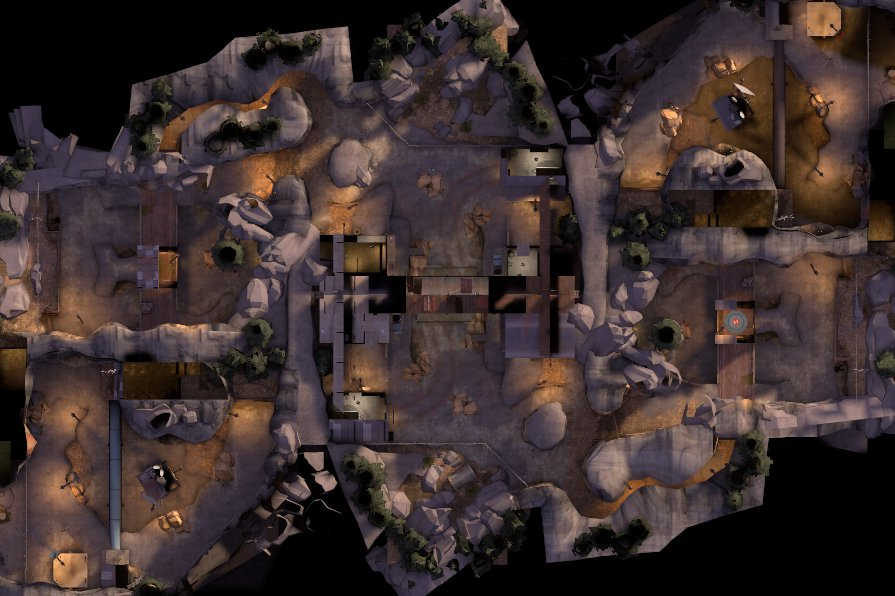
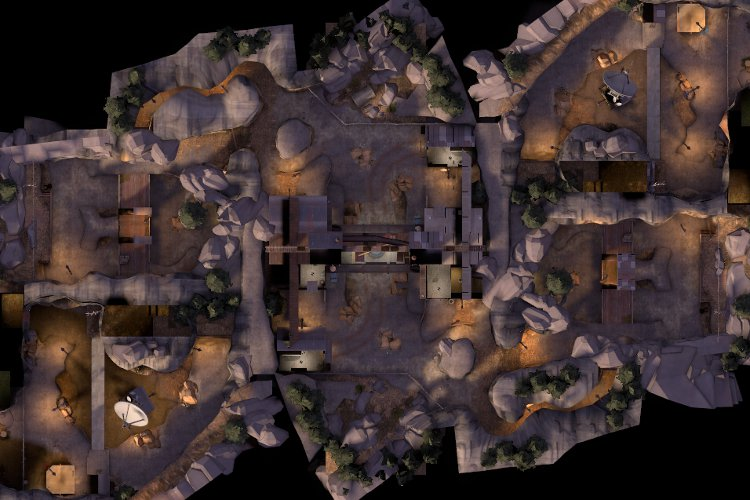
Fixed issue on the layout. Updated maps that were from before changes to JS, and added a bunch of new ones.

diff --git a/web/maps/cp_yukon_final/map.js b/web/maps/cp_yukon_final/map.js
@@ -1,26 +1,27 @@
 /////////////////////////////////////////////////////////////////////////////////////
 // YukonMap class - Abstract class to perform operations onto the canvas for the specific map.
 /////////////////////////////////////////////////////////////////////////////////////
-function YukonMap() {
-	this.minX = -3790;
-	this.maxX = 3793;
-	this.minY = -2496;
-	this.maxY = 2512;
-	this.imgWidth = 895;
-	this.imgHeight = 596;
-	this.flipXY = true;
-	this.negX = true;
-	this.negY = true;
-	this.capturePointRadius = 10;
-	this.mapImageLocation = './yukon.jpg';
-	this.capturePoints = [
-		new CapturePoint("#Badlands_cap_cp3", new Coordinate(0,0), "") //midpt, neutral
-		,new CapturePoint("#Badlands_cap_blue_cp1", new Coordinate(-2355, 3218), "blue")
-		,new CapturePoint("#Badlands_cap_blue_cp2", new Coordinate(237, 2463), "blue")
-		,new CapturePoint("#Badlands_cap_red_cp1", new Coordinate(2357, -3213), "red")
-		,new CapturePoint("#Badlands_cap_red_cp2", new Coordinate(-231, -2461), "red")
-	];
-}
-YukonMap.prototype = new GameMap();
-YukonMap.prototype.constructor = YukonMap;
+var YukonMap = GameMap.extend({
+  init: function(){
+		this._super();
+		
+	  this.minX = -3790;
+	  this.maxX = 3793;
+	  this.minY = -2496;
+	  this.maxY = 2512;
+	  this.imgWidth = 750;
+	  this.imgHeight = 500;
+	  this.flipXY = true;
+	  this.mapImageLocation = '/maps/cp_yukon_final/map.jpg';
+	  this.scoreBoardCorner = "br"; //red last collides with scoreboard in default position
+	  this.capturePoints = [
+	    //first value should be the log's name for the point, the second value should be the value that shows up in game
+		  new CapturePointDrawable("Center Control Point", "Center Control Point", this.generateImageCoordinate(new Coordinate(0,0)), "", this.capturePointRadius) //midpt, neutral
+		  ,new CapturePointDrawable("Blue Base", "Blue Base", this.generateImageCoordinate(new Coordinate(-2355, 3218)), "blue", this.capturePointRadius)
+		  ,new CapturePointDrawable("Blue Bridge", "Blue Bridge", this.generateImageCoordinate(new Coordinate(237, 2463)), "blue", this.capturePointRadius)
+		  ,new CapturePointDrawable("Red Base", "Red Base", this.generateImageCoordinate(new Coordinate(2357, -3213)), "red", this.capturePointRadius)
+		  ,new CapturePointDrawable("Red Bridge", "Red Bridge", this.generateImageCoordinate(new Coordinate(-231, -2461)), "red", this.capturePointRadius)
+	  ];
+	}
+});
 gameMapObj = new YukonMap(); //set the global map object to use our new YukonMap object.

diff --git a/web/maps/cp_gullywash_imp3/map.js b/web/maps/cp_gullywash_imp3/map.js
@@ -1,23 +1,25 @@
 /////////////////////////////////////////////////////////////////////////////////////
 // GullywashMap class - Abstract class to perform operations onto the canvas for the specific map.
 /////////////////////////////////////////////////////////////////////////////////////
-function GullywashMap() {
-	this.minX = -3541;
-	this.maxX = 4899;
-	this.minY = -2842;
-	this.maxY = 2265;
-	this.imgWidth = 700;
-	this.imgHeight = 421;
-	this.capturePointRadius = 10;
-	this.mapImageLocation = './gullywash.jpg';
-	this.capturePoints = [
-		new CapturePoint("#Badlands_cap_cp3", new Coordinate(692,-296), "") //midpt, neutral
-		,new CapturePoint("#Badlands_cap_blue_cp1", new Coordinate(4458, -1035), "blue")
-		,new CapturePoint("#Badlands_cap_blue_cp2", new Coordinate(1720, -1894), "blue")
-		,new CapturePoint("#Badlands_cap_red_cp1", new Coordinate(-3081, 450), "red")
-		,new CapturePoint("#Badlands_cap_red_cp2", new Coordinate(-356, 1316), "red")
-	];
-}
-GullywashMap.prototype = new GameMap();
-GullywashMap.prototype.constructor = GullywashMap;
+var GullywashMap = GameMap.extend({
+  init: function(){
+		this._super();
+		
+	  this.minX = -3541;
+	  this.maxX = 4899;
+	  this.minY = -2842;
+	  this.maxY = 2265;
+	  this.imgWidth = 700;
+	  this.imgHeight = 421;
+	  this.mapImageLocation = '/maps/cp_gullywash_imp3/map.jpg';
+	  this.capturePoints = [
+	    //first value should be the log's name for the point, the second value should be the value that shows up in game
+		  new CapturePointDrawable("#Well_cap_center", "Central Control Point", this.generateImageCoordinate(new Coordinate(692,-296)), "", this.capturePointRadius) //midpt, neutral
+		  ,new CapturePointDrawable("#Well_cap_blue_rocket", "BLU Base", this.generateImageCoordinate(new Coordinate(4458, -1035)), "blue", this.capturePointRadius)
+		  ,new CapturePointDrawable("#Well_cap_blue_two", "BLU Warehouse", this.generateImageCoordinate(new Coordinate(1720, -1894)), "blue", this.capturePointRadius)
+		  ,new CapturePointDrawable("#Well_cap_red_rocket", "RED Base", this.generateImageCoordinate(new Coordinate(-3081, 450)), "red", this.capturePointRadius)
+		  ,new CapturePointDrawable("#Well_cap_red_two", "RED Warehouse", this.generateImageCoordinate(new Coordinate(-356, 1316)), "red", this.capturePointRadius)
+	  ];
+	}
+});
 gameMapObj = new GullywashMap(); //set the global map object to use our new GullywashMap object.

diff --git a/web/maps/cp_gravelpit/map.js b/web/maps/cp_gravelpit/map.js
@@ -1,21 +1,23 @@
 /////////////////////////////////////////////////////////////////////////////////////
 // GravelPitMap class - Abstract class to perform operations onto the canvas for the specific map.
 /////////////////////////////////////////////////////////////////////////////////////
-function GravelPitMap() {
-	this.minX = -4659;
-	this.maxX = 1280;
-	this.minY = -316;
-	this.maxY = 5605;
-	this.imgWidth = 700;
-	this.imgHeight = 696;
-	this.capturePointRadius = 10;
-	this.mapImageLocation = './gravelpit.jpg';
-	this.capturePoints = [
-		new CapturePoint("#Badlands_cap_cp3", new Coordinate(126,554), "red")
-		,new CapturePoint("#Badlands_cap_blue_cp1", new Coordinate(-2240, 4095), "red")
-		,new CapturePoint("#Badlands_cap_blue_cp2", new Coordinate(-2747, 1310), "red")
-	];
-}
-GravelPitMap.prototype = new GameMap();
-GravelPitMap.prototype.constructor = GravelPitMap;
+var GravelPitMap = GameMap.extend({
+  init: function(){
+		this._super();
+		
+	  this.minX = -4659;
+	  this.maxX = 1280;
+	  this.minY = -316;
+	  this.maxY = 5605;
+	  this.imgWidth = 700;
+	  this.imgHeight = 696;
+	  this.mapImageLocation = '/maps/cp_gravelpit/map.jpg';
+	  this.capturePoints = [
+	    //first value should be the log's name for the point, the second value should be the value that shows up in game
+		  new CapturePointDrawable("#Gravelpit_cap_A", "The Radio Tower (A)", this.generateImageCoordinate(new Coordinate(126,554)), "red", this.capturePointRadius)
+		  ,new CapturePointDrawable("#Gravelpit_cap_B", "The Radar (B)", this.generateImageCoordinate(new Coordinate(-2240, 4095)), "red", this.capturePointRadius)
+		  ,new CapturePointDrawable("#Gravelpit_cap_C", "The Laser Gun (C)", this.generateImageCoordinate(new Coordinate(-2747, 1310)), "red", this.capturePointRadius)
+	  ];	
+	}
+});
 gameMapObj = new GravelPitMap(); //set the global map object to use our new GravelPitMap object.

diff --git a/web/maps/pl_goldrush/map.js b/web/maps/pl_goldrush/map.js
@@ -1,0 +1,27 @@
+/////////////////////////////////////////////////////////////////////////////////////
+// GoldrushMap class - Abstract class to perform operations onto the canvas for the specific map.
+/////////////////////////////////////////////////////////////////////////////////////
+var GoldrushMap = GameMap.extend({
+  init: function(){
+		this._super();
+		
+	  this.minX = -8573;
+	  this.maxX = -2184;
+	  this.minY = -2687;
+	  this.maxY = 3244;
+	  this.imgWidth = 688;
+	  this.imgHeight = 707;
+	  this.mapImageLocation = '/maps/pl_goldrush/map.jpg';
+	  this.capturePoints = [
+	    //first value should be the log's name for the point, the second value should be the value that shows up in game
+		  new CapturePointDrawable("#Goldrush_cap_1_A", "First Cap, Stage One", new Coordinate(680,278), "red", this.capturePointRadius) 
+		  ,new CapturePointDrawable("#Goldrush_cap_1_B", "Second Cap, Stage One", new Coordinate(527,65), "red", this.capturePointRadius)
+		  ,new CapturePointDrawable("#Goldrush_cap_2_A", "First Cap, Stage Two", new Coordinate(119,230), "red", this.capturePointRadius)
+		  ,new CapturePointDrawable("#Goldrush_cap_2_B", "Second Cap, Stage Two", new Coordinate(121,481), "red", this.capturePointRadius)
+		  ,new CapturePointDrawable("#Goldrush_cap_3_A", "First Cap, Stage Three", new Coordinate(447,553), "red", this.capturePointRadius)
+		  ,new CapturePointDrawable("#Goldrush_cap_3_B", "Second Cap, Stage Three", new Coordinate(245,446), "red", this.capturePointRadius)
+		  ,new CapturePointDrawable("#Goldrush_cap_3_C", "Atomic Pit, Final Cap", new Coordinate(451,292), "red", this.capturePointRadius)
+	  ];
+	}
+});
+gameMapObj = new GoldrushMap(); //set the global map object to use our new GoldrushMap object.

diff --git a/web/maps/cp_coldfront/map.js b/web/maps/cp_coldfront/map.js
@@ -1,0 +1,27 @@
+/////////////////////////////////////////////////////////////////////////////////////
+// ColdfrontMap class - Abstract class to perform operations onto the canvas for the specific map.
+/////////////////////////////////////////////////////////////////////////////////////
+var ColdfrontMap = GameMap.extend({
+  init: function(){
+		this._super();
+		
+		this.flipXY = true;
+	  this.minX = -6184;
+	  this.maxX = 6192;
+	  this.minY = -1524;
+	  this.maxY = 1521;
+	  this.imgWidth = 750;
+	  this.imgHeight = 189;
+	  this.mapImageLocation = '/maps/cp_coldfront/map.jpg';
+	  this.scoreBoardCorner = "br";
+	  this.capturePoints = [
+	    //first value should be the log's name for the point, the second value should be the value that shows up in game
+		  new CapturePointDrawable("#Granary_cap_cp3", "Central Control Point", new Coordinate(373,93), "", this.capturePointRadius) //midpt, neutral
+		  ,new CapturePointDrawable("#Granary_cap_blue_cp1", "BLU Base", new Coordinate(44,124), "blue", this.capturePointRadius)
+		  ,new CapturePointDrawable("#Granary_cap_blue_cp2", "BLU Warehouse", new Coordinate(207,105), "blue", this.capturePointRadius)
+		  ,new CapturePointDrawable("#Granary_cap_red_cp1", "RED Base", new Coordinate(704,61), "red", this.capturePointRadius)
+		  ,new CapturePointDrawable("#Granary_cap_red_cp2", "RED Warehouse", new Coordinate(544,83), "red", this.capturePointRadius)
+	  ];
+	}
+});
+gameMapObj = new ColdfrontMap(); //set the global map object to use our new ColdfrontMap object.

diff --git a/web/maps/cp_freight_final1/map.js b/web/maps/cp_freight_final1/map.js
@@ -1,0 +1,26 @@
+/////////////////////////////////////////////////////////////////////////////////////
+// FreightFinal1Map class - Abstract class to perform operations onto the canvas for the specific map.
+/////////////////////////////////////////////////////////////////////////////////////
+var FreightFinal1Map = GameMap.extend({
+  init: function(){
+		this._super();
+		
+		this.negY = true;
+	  this.minX = -4300;
+	  this.maxX = 4246;
+	  this.minY = -2417;
+	  this.maxY = 2295;
+	  this.imgWidth = 750;
+	  this.imgHeight = 413;
+	  this.mapImageLocation = '/maps/cp_freight_final1/map.jpg';
+	  this.capturePoints = [
+	    //first value should be the log's name for the point, the second value should be the value that shows up in game
+		  new CapturePointDrawable("#Well_cap_center", "Central Control Point", new Coordinate(375,207), "", this.capturePointRadius) //midpt, neutral
+		  ,new CapturePointDrawable("#Well_cap_blue_rocket", "BLU Base", new Coordinate(73,206), "blue", this.capturePointRadius)
+		  ,new CapturePointDrawable("#Well_cap_blue_two", "BLU Warehouse", new Coordinate(159,336), "blue", this.capturePointRadius)
+		  ,new CapturePointDrawable("#Well_cap_red_rocket", "RED Base", new Coordinate(678,206), "red", this.capturePointRadius)
+		  ,new CapturePointDrawable("#Well_cap_red_two", "RED Warehouse", new Coordinate(583,77), "red", this.capturePointRadius)
+	  ];
+	}
+});
+gameMapObj = new FreightFinal1Map(); //set the global map object to use our new FreightFinal1Map object.

diff --git a/web/js/mapviewer.js b/web/js/mapviewer.js
@@ -28,6 +28,10 @@ var GameMap = Class.extend({
 		this.flipXY = false;
 		this.negX = false;
 		this.negY = false;
+		
+		//bl = bottom left, br = bottom right, tl = top left, tr = top right
+		//precedence for scoreboard placement: bl > br > tl > tr
+		this.scoreBoardCorner = "bl"; 
 	},
 	
 	copyCapturePoints: function() {
@@ -143,11 +147,24 @@ var MapDrawer = Class.extend({
 	drawScores: function(canvas, context, redScore, blueScore) {
 	  boxwidth = 20;
 	  boxheight = 15;
-	  boxbotmargin = 10;
+	  boxtbmargin = 10;
 	  boxspacing = 10;
-	  boxleftmargin = 10;
-	  boxY = canvas.height - boxbotmargin - boxheight;
-	  boxX = boxleftmargin;
+	  boxrlmargin = 10;
+	  var pos = mapViewerObj.gameMap.scoreBoardCorner;
+	  var boxY, boxX;
+	  if(pos === 'bl') {
+	    boxY = canvas.height - boxtbmargin - boxheight;
+	    boxX = boxrlmargin;
+	  } else if (pos === 'br') {
+	    boxY = canvas.height - boxtbmargin - boxheight;
+	    boxX = canvas.width - boxrlmargin - boxspacing - boxwidth*2;
+	  } else if(pos === 'tl') {
+	    boxY = boxtbmargin;
+	    boxX = boxrlmargin;
+	  } else if (pos === 'tr') {
+	    boxY = boxtbmargin;
+	    boxX = canvas.width - boxrlmargin - boxspacing - boxwidth*2;
+	  }
 	  leftPadding = 2;
 	  topPadding = 2;
 	  strokecolor = "#9C947C";

diff --git a/web/maps/ctf_turbine/map.js b/web/maps/ctf_turbine/map.js
@@ -1,0 +1,24 @@
+/////////////////////////////////////////////////////////////////////////////////////
+// TurbineMap class - Abstract class to perform operations onto the canvas for the specific map.
+/////////////////////////////////////////////////////////////////////////////////////
+var TurbineMap = GameMap.extend({
+  init: function(){
+		this._super();
+		
+		this.negY = true;
+	  this.minX = -3232;
+	  this.maxX = 3225;
+	  this.minY = -1657;
+	  this.maxY = 1638;
+	  this.imgWidth = 750;
+	  this.imgHeight = 388;
+	  this.mapImageLocation = '/maps/ctf_turbine/map.jpg';
+	  this.scoreBoardCorner = "br";
+	  this.capturePoints = [
+	    //first value should be the log's name for the point, the second value should be the value that shows up in game
+		  new CapturePointDrawable("blue_cap", "Blue Intel", new Coordinate(17, 369), "blue", this.capturePointRadius)
+		  ,new CapturePointDrawable("red_cap", "Red Intel", new Coordinate(732,16), "red", this.capturePointRadius)
+	  ];
+	}
+});
+gameMapObj = new TurbineMap(); //set the global map object to use our new TurbineMap object.

diff --git a/web/maps/koth_viaduct/map.js b/web/maps/koth_viaduct/map.js
@@ -1,0 +1,22 @@
+/////////////////////////////////////////////////////////////////////////////////////
+// ViaductMap class - Abstract class to perform operations onto the canvas for the specific map.
+/////////////////////////////////////////////////////////////////////////////////////
+var ViaductMap = GameMap.extend({
+  init: function(){
+		this._super();
+		
+		this.flipXY = true;
+	  this.minX = -3230;
+	  this.maxX = 3239;
+	  this.minY = -2749;
+	  this.maxY = -240;
+	  this.imgWidth = 750;
+	  this.imgHeight = 297;
+	  this.mapImageLocation = '/maps/koth_viaduct/map.jpg';
+	  this.capturePoints = [
+	    //first value should be the log's name for the point, the second value should be the value that shows up in game
+		  new CapturePointDrawable("#koth_viaduct_cap", "Control Point", this.generateImageCoordinate(new Coordinate(-1532,0)), "", this.capturePointRadius)
+	  ];
+	}
+});
+gameMapObj = new ViaductMap(); //set the global map object to use our new ViaductMap object.

diff --git a/web/maps/koth_sawmill/map.js b/web/maps/koth_sawmill/map.js
@@ -1,0 +1,22 @@
+/////////////////////////////////////////////////////////////////////////////////////
+// SawmillMap class - Abstract class to perform operations onto the canvas for the specific map.
+/////////////////////////////////////////////////////////////////////////////////////
+var SawmillMap = GameMap.extend({
+  init: function(){
+		this._super();
+		
+		this.negY = true;
+	  this.minX = -1753;
+	  this.maxX = 2743;
+	  this.minY = -2497;
+	  this.maxY = 2526;
+	  this.imgWidth = 750;
+	  this.imgHeight = 840;
+	  this.mapImageLocation = '/maps/koth_sawmill/map.jpg';
+	  this.capturePoints = [
+	    //first value should be the log's name for the point, the second value should be the value that shows up in game
+		  new CapturePointDrawable("#Arena_cap", "Control Point", this.generateImageCoordinate(new Coordinate(508,0)), "", this.capturePointRadius)
+	  ];
+	}
+});
+gameMapObj = new SawmillMap(); //set the global map object to use our new SawmillMap object.

diff --git a/apps/frontend/templates/layout.php b/apps/frontend/templates/layout.php
@@ -26,8 +26,10 @@
         <li><a href="<?php echo url_for('@autoLogin') ?>"><?php echo image_tag('steam_openid_bar.png') ?></a></li>
       <?php endif ?>
       </ul>
-      <br class="hardSeparator"/>
-      <span class="subInfo fRight"><strong>To upload a log, sign in through STEAM</strong></span>
+      <?php if(!$sf_user->isAuthenticated()): ?>
+        <br class="hardSeparator"/>
+        <span class="subInfo fRight"><strong>To upload a log, sign in through STEAM</strong></span>
+      <?php endif ?>
     </div>
     <br class="hardSeparator"/>
   </div>
